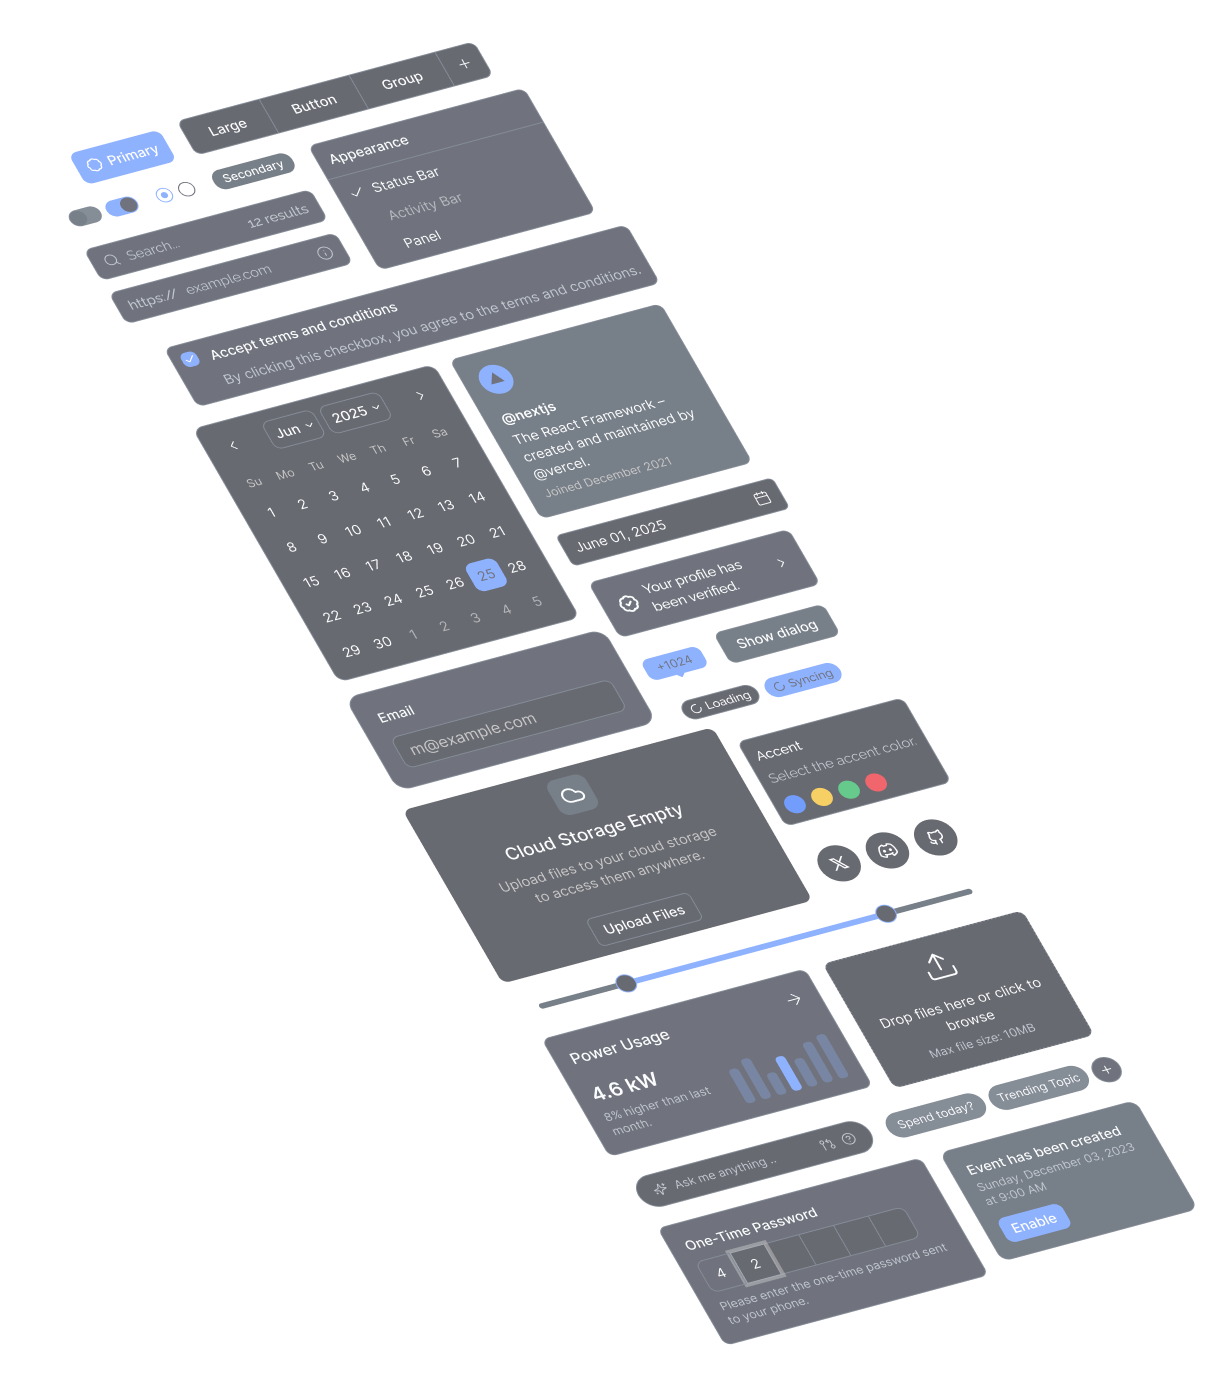
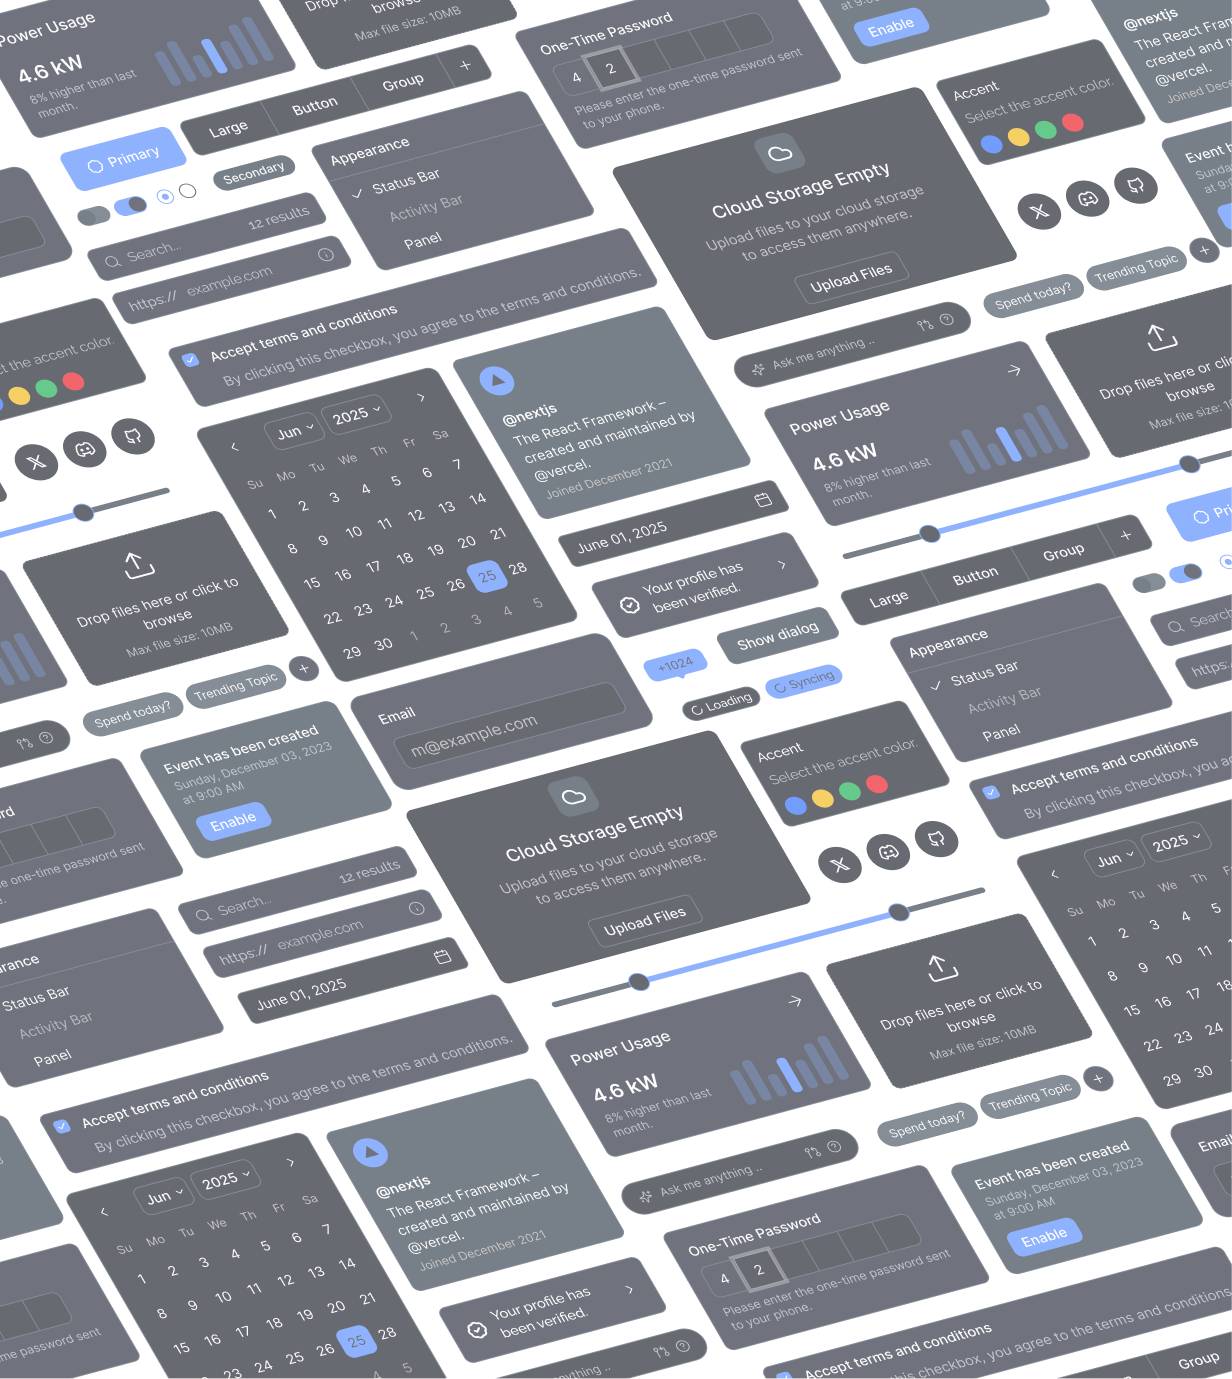
animation changes and images changes, faq question changes

diff --git a/src/components/animation/DiagonalScroll.tsx b/src/components/animation/DiagonalScroll.tsx
@@ -13,6 +13,8 @@ interface DiagonalScrollProps {
   className?: string
 }
 
+//  ------------------------------ | DIAGONAL SCROLL | ------------------------------  //
+
 function ScrollImage({
   innerRef,
   src,
@@ -27,14 +29,14 @@ function ScrollImage({
   return (
     <div
       ref={innerRef}
-      className="absolute top-0 left-0 w-[1400px] min-w-[1024px]"
-      style={{ opacity, transform: "translate(-50%, -50%)" }}
+      className="absolute top-0 left-0 w-full"
+      style={{ opacity }}
     >
       <img
         src={src}
         alt=""
         className={cn(
-          "pointer-events-none aspect-auto w-full",
+          "pointer-events-none aspect-auto w-full object-cover",
           darkSrc && "dark:hidden"
         )}
       />
@@ -42,7 +44,7 @@ function ScrollImage({
         <img
           src={darkSrc}
           alt=""
-          className="pointer-events-none hidden aspect-auto w-full dark:block"
+          className="pointer-events-none hidden aspect-auto w-full object-cover dark:block"
         />
       )}
     </div>
@@ -64,23 +66,16 @@ export default function DiagonalScroll({
     const img2 = img2Ref.current
     if (!img1 || !img2) return
 
-    const duration = 25000
-    const imgW = 1400
-    const imgH = 1567
-    const overlapFactor = 0.8
+    const duration = 20000
 
     const keyframes1 = [
-      { transform: "translate(-50%, -50%) translate(0px, 0px)" },
-      {
-        transform: `translate(-50%, -50%) translate(${-imgW * overlapFactor}px, ${-imgH * overlapFactor}px)`,
-      },
+      { transform: "translateY(0%)" },
+      { transform: "translateY(-100%)" },
     ]
 
     const keyframes2 = [
-      {
-        transform: `translate(-50%, -50%) translate(${imgW * overlapFactor}px, ${imgH * overlapFactor}px)`,
-      },
-      { transform: "translate(-50%, -50%) translate(0px, 0px)" },
+      { transform: "translateY(100%)" },
+      { transform: "translateY(0%)" },
     ]
 
     const options = {
@@ -105,16 +100,13 @@ export default function DiagonalScroll({
         className
       )}
     >
-      <div className="absolute top-1/2 left-1/2 h-0 w-0">
-        {/* Image 1 — starts visible at center, exits top-left */}
+      <div className="absolute inset-0">
         <ScrollImage
           innerRef={img1Ref}
           src={src}
           darkSrc={darkSrc}
           opacity={opacity}
         />
-
-        {/* Image 2 — starts at bottom-right (outside), enters as Image 1 exits */}
         <ScrollImage
           innerRef={img2Ref}
           src={src}

diff --git a/src/components/uiable/blocks/landing/feature/Feature.tsx b/src/components/uiable/blocks/landing/feature/Feature.tsx
@@ -145,7 +145,7 @@ export default function Feature() {
               }
               src="/assets/images/landing/light.png"
               darkSrc="/assets/images/landing/dark.png"
-              opacity={0.6}
+              opacity={0.7}
             />
           )}
           {selectedIndex === 1 && <TechOrbit />}
@@ -156,12 +156,12 @@ export default function Feature() {
               <EchoStack>
                 <div className="flex h-full w-full items-center justify-center">
                   <LightFav
-                    width={84}
+                    width={80}
                     height={80}
                     className="block rounded-full text-white dark:hidden"
                   />
                   <DarkFav
-                    width={84}
+                    width={80}
                     height={80}
                     className="hidden rounded-full text-white dark:block"
                   />
@@ -179,7 +179,7 @@ export default function Feature() {
                     <img
                       src={`/assets/images/landing/image-dark-${num}.png`}
                       alt={`Feature layer ${num}`}
-                      className="hidden size-full object-contain object-top dark:block"
+                      className="hidden size-full object-contain object-top md:h-[580px] md:w-[580px] dark:block"
                     />
                   </div>
                 ))}

diff --git a/src/components/animation/CodeAnimation.tsx b/src/components/animation/CodeAnimation.tsx
@@ -108,6 +108,8 @@ function AnimatedBadge({ visible }: AnimatedBadgeProps) {
   )
 }
 
+//  ------------------------------ | CODE ANIMATION | ------------------------------  //
+
 export default function CodeAnimation({
   badges = [null, null, null],
   className,

diff --git a/src/components/uiable/blocks/landing/contact/Contact.tsx b/src/components/uiable/blocks/landing/contact/Contact.tsx
@@ -3,7 +3,7 @@
 import { SyntheticEvent, useState } from "react"
 
 // assets
-import { DarkFav, LightFav } from "@/images/brand"
+import { LightFav } from "@/images/brand"
 import { ContactLeftGrid, ContactRightGrid } from "@/images/svg/landing"
 
 // third party

diff --git a/src/components/uiable/blocks/landing/faq/faq.tsx b/src/components/uiable/blocks/landing/faq/faq.tsx
@@ -92,7 +92,7 @@ const faqItems = [
   },
   {
     number: "5.",
-    question: "How are UIAble components different from shadcn/ui primitives?",
+    question: "How are UIAble components different from shadcn/ui?",
     answer:
       "Shadcn/ui provides the core components like Buttons, Dialogs, Alerts, and Badges. UIAble builds on top of them with production-ready, fully styled components like animated buttons, searchable comboboxes, date pickers, advanced sidebars, and more. You get the flexibility of shadcn/ui with ready-to-use components that are easier to copy, customize, and ship.",
   },